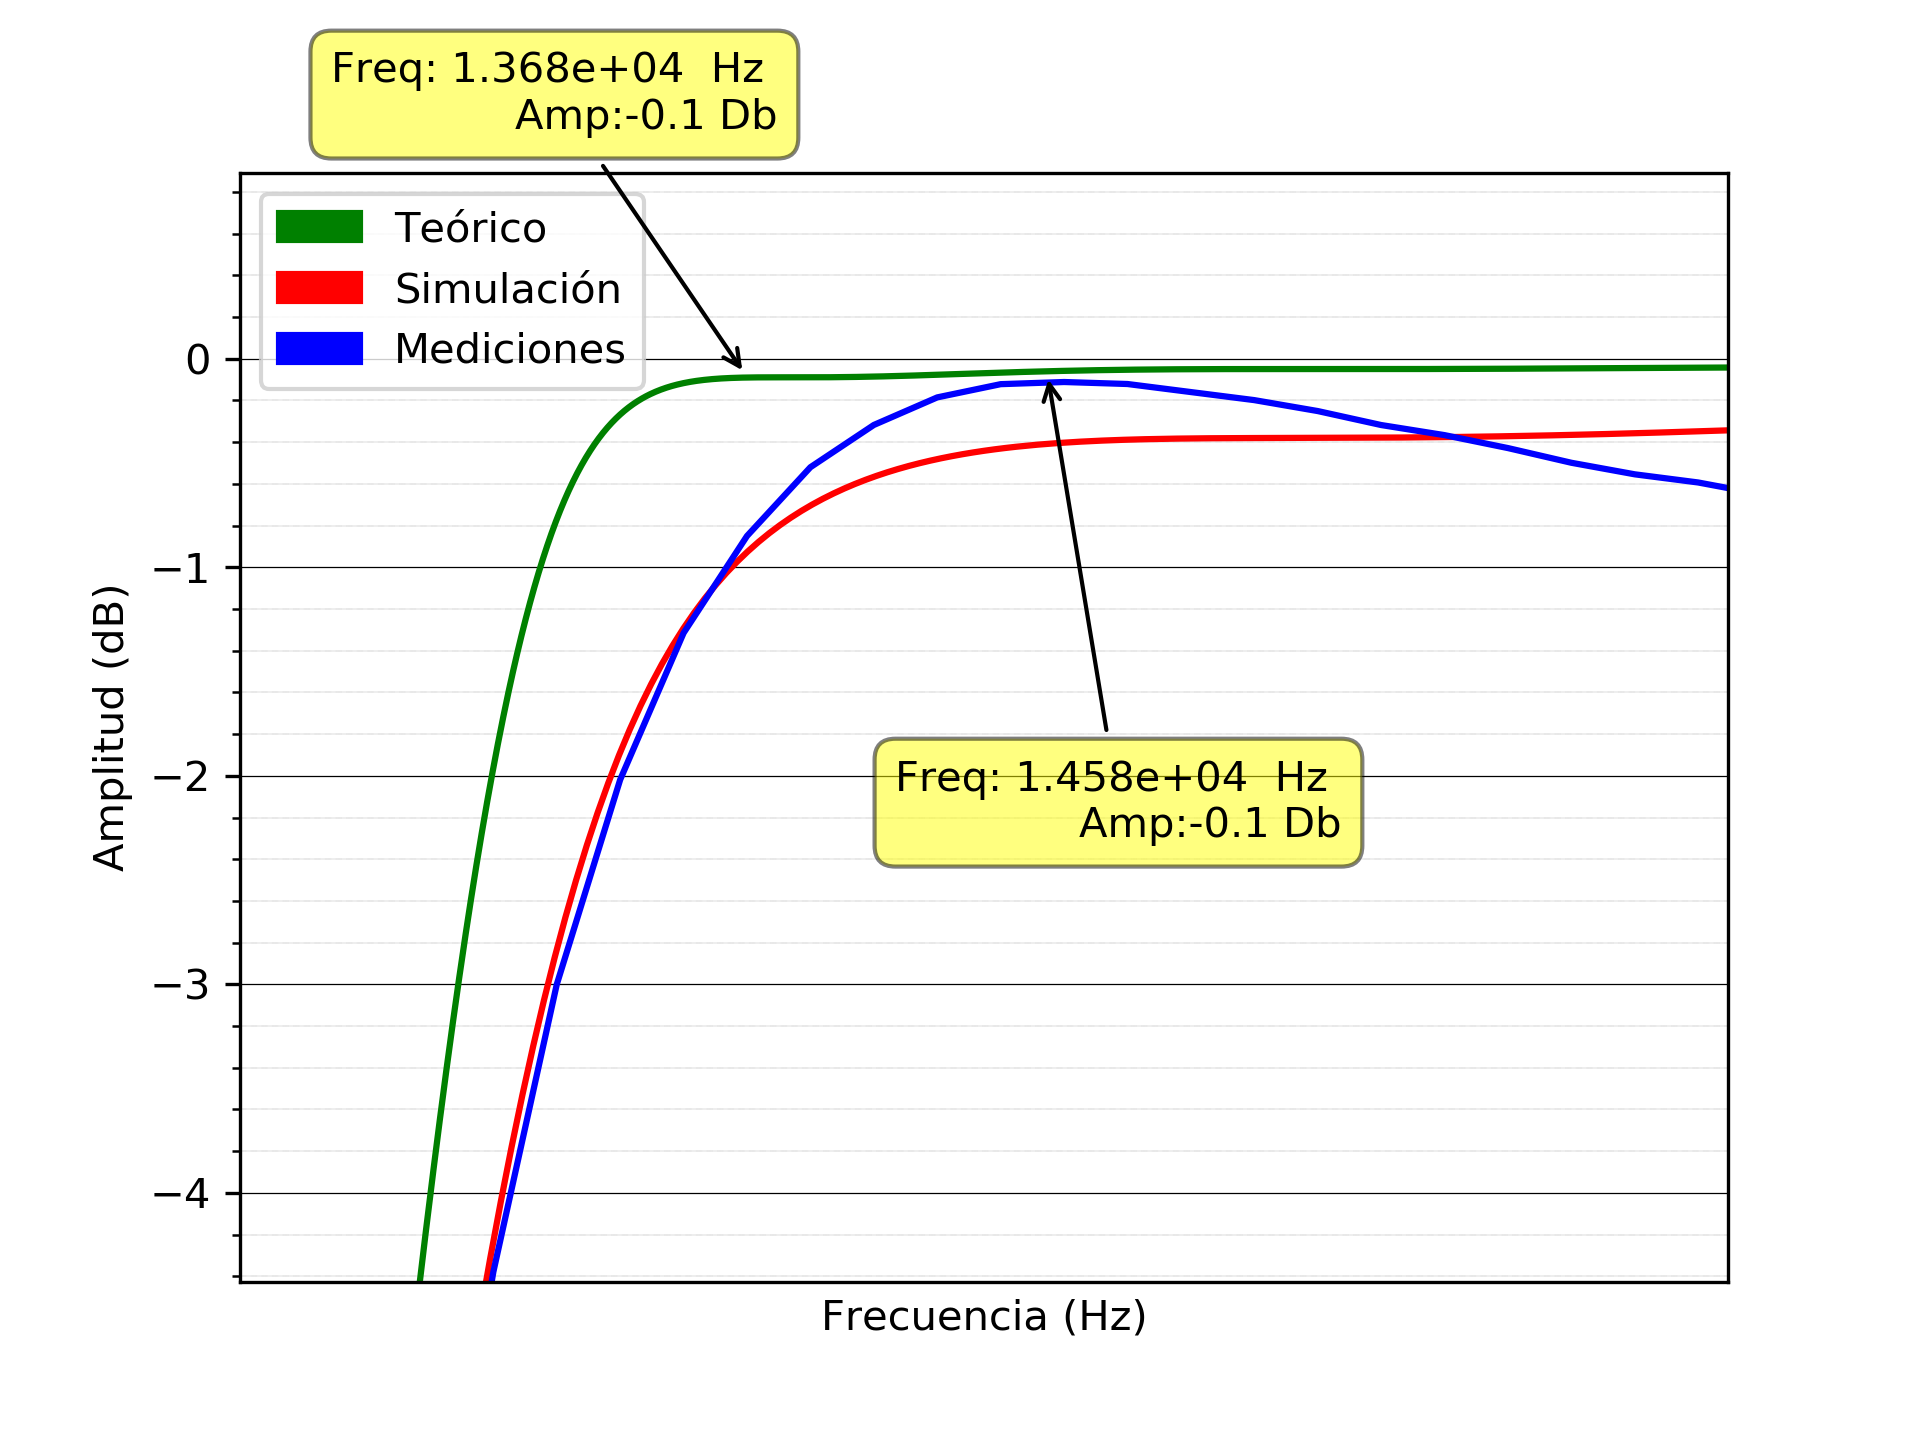
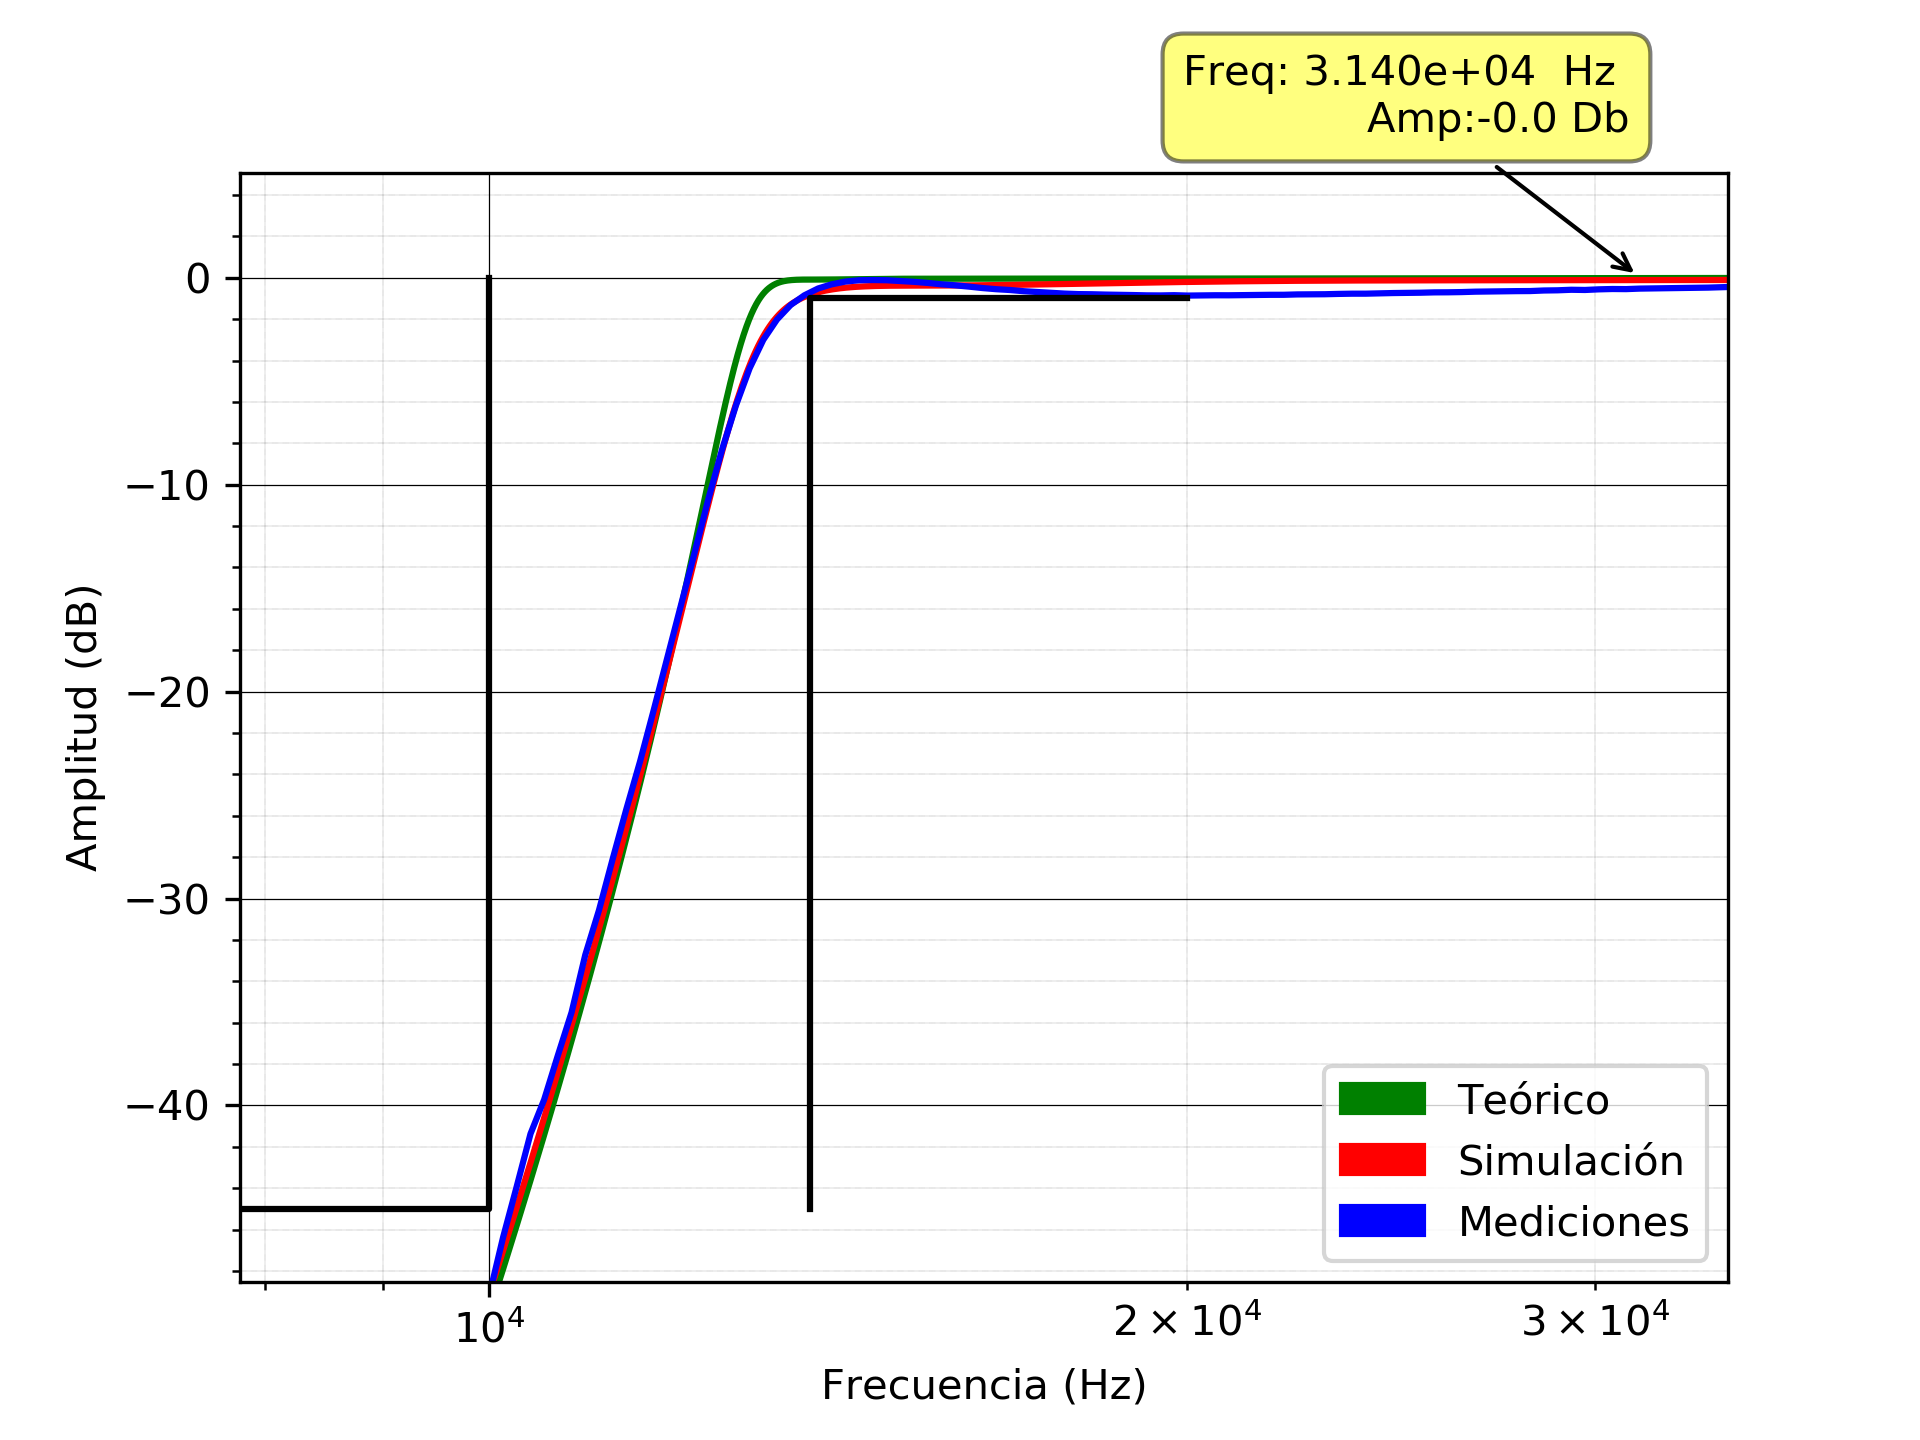
add

diff --git a/TP7/graficos_express/main.py b/TP7/graficos_express/main.py
@@ -122,9 +122,10 @@ def plot_mediciones(path, mode, mediciones_filename, spice_filename, output_file
         patches.append(mpatches.Patch(color="blue", label="Mediciones"))
 
     if plantillaPoints:
-        mag_new = [i for i in plantillaPoints[1]]
+        for p in plantillaPoints:
+            mag_new = [i for i in p[1]]
 
-        ax1.semilogx(plantillaPoints[0], mag_new, "black")
+            ax1.semilogx(p[0], mag_new, "black")
 
 
     plt.legend(handles=patches)
@@ -140,7 +141,8 @@ def plot_mediciones(path, mode, mediciones_filename, spice_filename, output_file
 k = 1e3
 
 plantilla_points = [
-
+    [[5000, 10000, 10000], [-45, -45, 0]],
+    [[13750,13750, 20000], [-45, -1, -1]]
 ]
 
 # plot_mediciones(path="",
@@ -175,23 +177,29 @@ plantilla_points = [
 #                 my_tf=transfer2.H[3],
 #                 plantillaPoints=plantilla_points)
 
-plot_mediciones(path="",
-                mode="mag",
-                mediciones_filename="etapaEacc.csv",
-                spice_filename="etapaABCDE.txt",
-                output_filename="etapaABCDE.png",
-                my_tf=transfer2.H[4],
-                plantillaPoints=plantilla_points)
-
 # plot_mediciones(path="",
 #                 mode="mag",
-#                 mediciones_filename="highpass.csv",
-#                 spice_filename="etapaABCDEF.txt",
-#                 output_filename="etapaABCDEF.png",
-#                 my_tf=transfer2.H[5],
+#                 mediciones_filename="etapaEacc.csv",
+#                 spice_filename="etapaABCDE.txt",
+#                 output_filename="etapaABCDE.png",
+#                 my_tf=transfer2.H[4],
 #                 plantillaPoints=plantilla_points)
 
+plot_mediciones(path="",
+                mode="mag",
+                mediciones_filename="highpass.csv",
+                spice_filename="etapaABCDEF.txt",
+                output_filename="etapaABCDEF.png",
+                my_tf=transfer2.H[5],
+                plantillaPoints=plantilla_points)
 
+plot_mediciones(path="",
+                mode="mag",
+                mediciones_filename="highpass.csv",
+                spice_filename="etapaABCDEF.txt",
+                output_filename="etapaABCDEF_v2.png",
+                my_tf=transfer2.H[5],
+                plantillaPoints=plantilla_points)
 #
 # plot_mediciones(path="EJ1/Circuito con Bessel/",
 #                 mode="mag",
